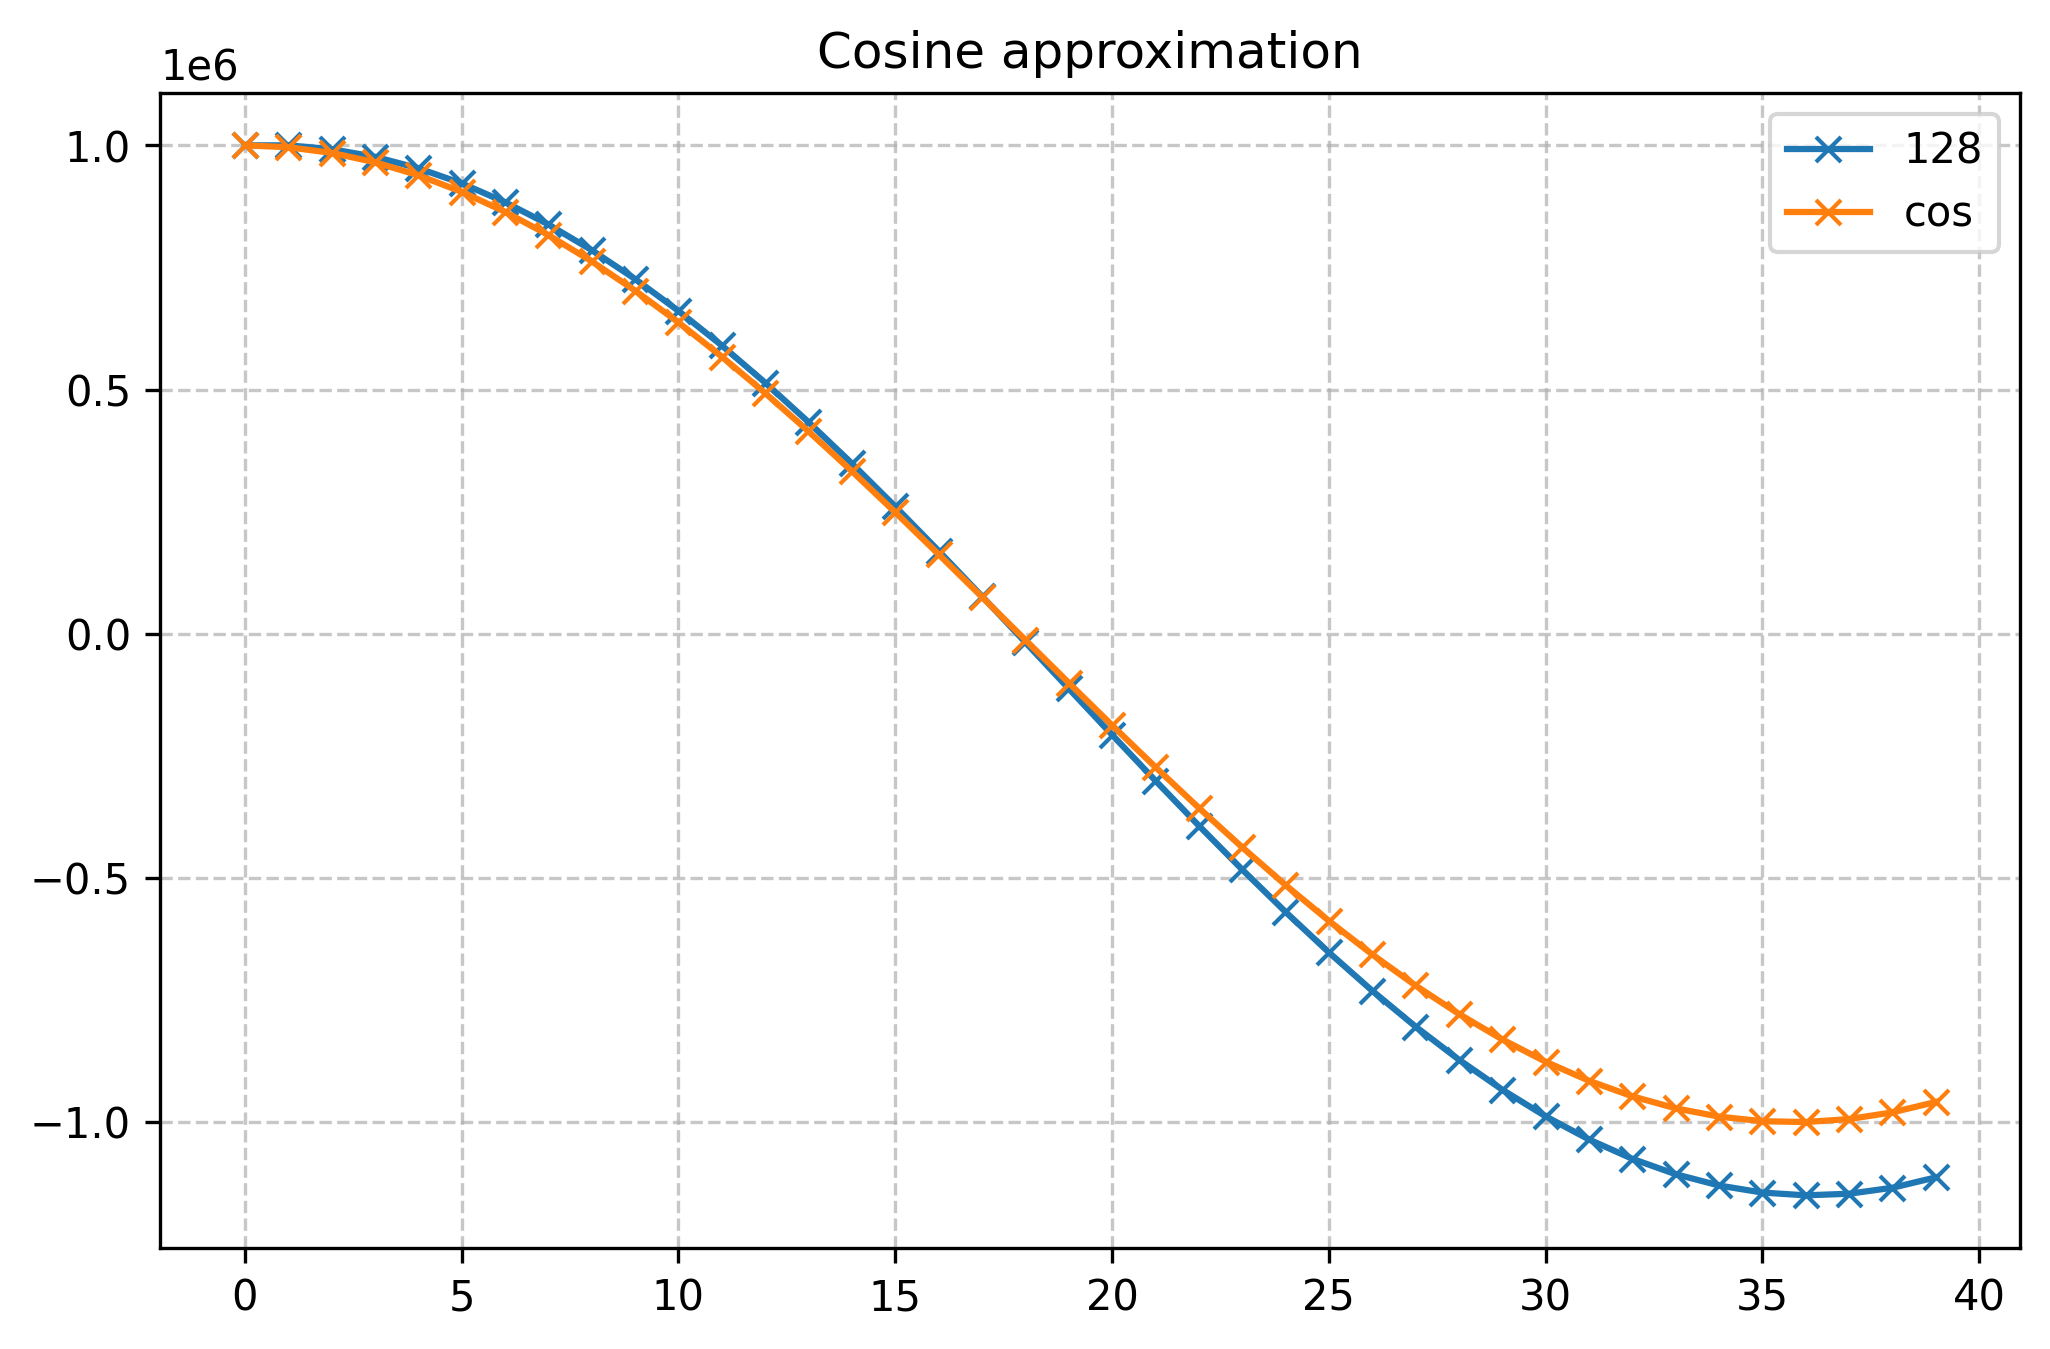
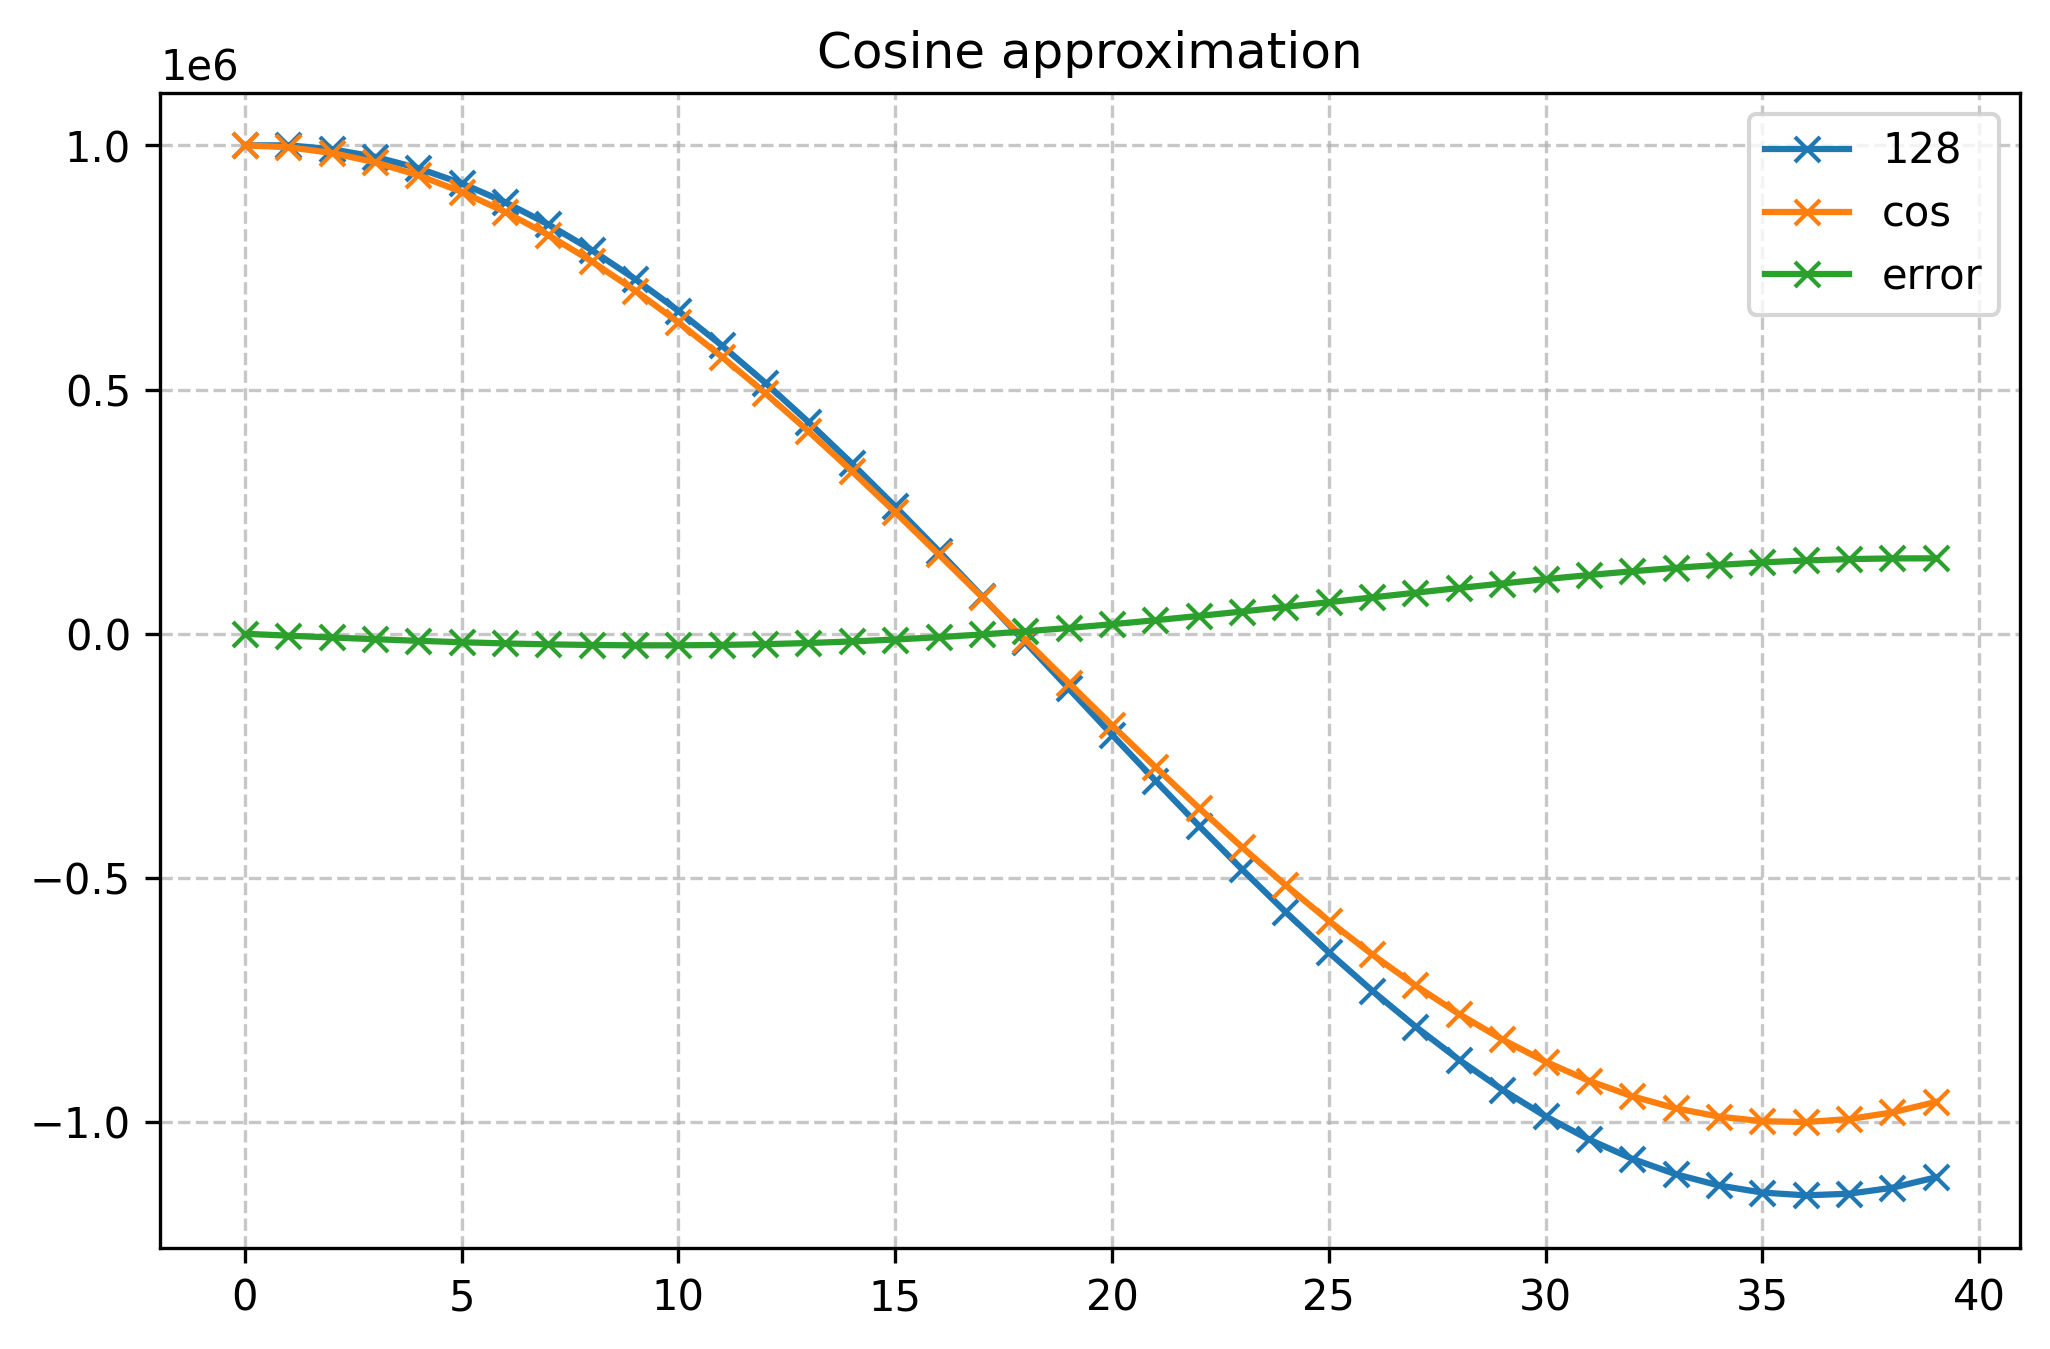
First quadrant points.

Changed region(s): [[0.1249, 0.4047, 0.9678, 0.4981], [0.8429, 0.0934, 0.9678, 0.2491]]

diff --git a/cosine.py b/cosine.py
@@ -57,11 +57,14 @@ def cosine(divider, nr_points):
 
         if prev_cor >= 0 and cor <= 0 and first_zero == False:
             bits = int(round(math.log(divider)/math.log(2)))
-            print("First zero crossing at %d" % (i-1))
-            print(f"    divider points {divider} / zero crossing {i-1} = {divider/(i-1)}")
-            print(f"    sqrt(divider points 2**{bits}) = { math.sqrt(divider) }")
-            print(f"    sqrt(divider points 2**{bits}) / zero crossing {i-1} =  { math.sqrt(divider) / (i-1) }")
+            #print("First zero crossing at %d" % (i-1))
+            #print(f"    divider points {divider} / zero crossing {i-1} = {divider/(i-1)}")
+            #print(f"    sqrt(divider points 2**{bits}) = { math.sqrt(divider) }")
+            #print(f"    sqrt(divider points 2**{bits}) / zero crossing {i-1} =  { math.sqrt(divider) / (i-1) }")
             first_zero  = True
+
+            sqrt_div_div_points = round(math.sqrt(divider) / (i-1), 4)
+            print(f" | {bits} | { 2**bits } | {i-1} | { sqrt_div_div_points } |")
         
         si      = 2*sprevi - sprev2i//divider - sprev2i
         sprev2i = sprevi
@@ -101,7 +104,13 @@ if True:
     x = np.linspace(0, 128/72 * 2 * np.pi, 128)  # 0 to 2π with 100 points
     cos4 = np.cos(x) * 1000000           # Apply cosine function
 
-    plot_numbers([ c4, cos4 ], [ 128, "cos" ], 40, True )
+    diff4 = cos4 - c4
+
+    plot_numbers([ c4, cos4, diff4 ], [ 128, "cos", "error" ], 40, True )
+
+    max_error_first_q = np.max(np.abs(diff4[0:17]))
+    print("Abs max error in first quadrant: %d" % max_error_first_q)
+    print("Rel max error over amplitidue in first quadrant: %f%%" % ((max_error_first_q/1000000)*100) )
 
 
 if True:

diff --git a/README.md b/README.md
@@ -37,4 +37,33 @@ quadrants, after that the approximation already starts to diverge way too much..
 
 ![Plot for divider 128 along with a cosine](cosine_plot_3.png)
 
+Lower dividers result in higher errors. In this case, the error relative to the
+maximum amplitude is 2.3% over the first 17 points, the first quadrant.
+
+If we only care about the first quadrant, we still need to know how many points
+there are in the first quadrant for a given divider.
+
+
+ | Shift | Divider | Nr Points | Nr Points/sqrt(Divider) |
+ |-------|-----|-----------|---------------------|
+ | 4 | 16 | 6 | 0.6667 |
+ | 5 | 32 | 8 | 0.7071 |
+ | 6 | 64 | 12 | 0.6667 |
+ | 7 | 128 | 17 | 0.6655 |
+ | 8 | 256 | 25 | 0.64 |
+ | 9 | 512 | 35 | 0.6465 |
+ | 10 | 1024 | 50 | 0.64 |
+ | 11 | 2048 | 71 | 0.6374 |
+ | 12 | 4096 | 100 | 0.64 |
+ | 13 | 8192 | 142 | 0.6374 |
+ | 14 | 16384 | 201 | 0.6368 |
+ | 15 | 32768 | 284 | 0.6374 |
+ | 16 | 65536 | 402 | 0.6368 |
+ | 17 | 131072 | 568 | 0.6374 |
+ | 18 | 262144 | 804 | 0.6368 |
+ | 19 | 524288 | 1137 | 0.6368 |
+ | 20 | 1048576 | 1609 | 0.6364 |
+ | 21 | 2097152 | 2275 | 0.6366 |
+ | 22 | 4194304 | 3219 | 0.6362 |
+ | 23 | 8388608 | 4553 | 0.6361 |
 
